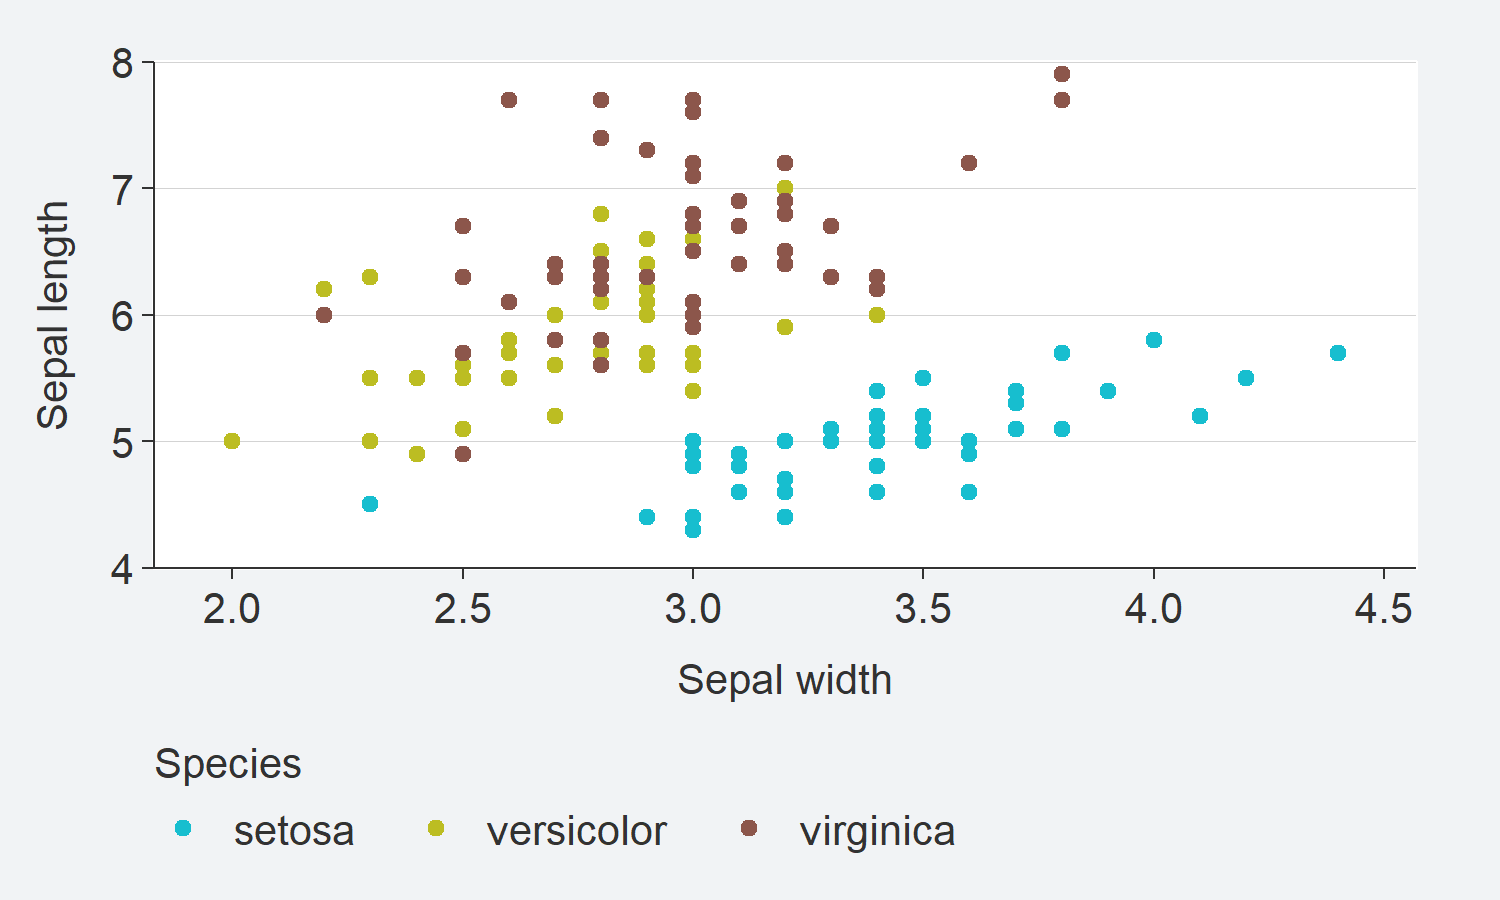
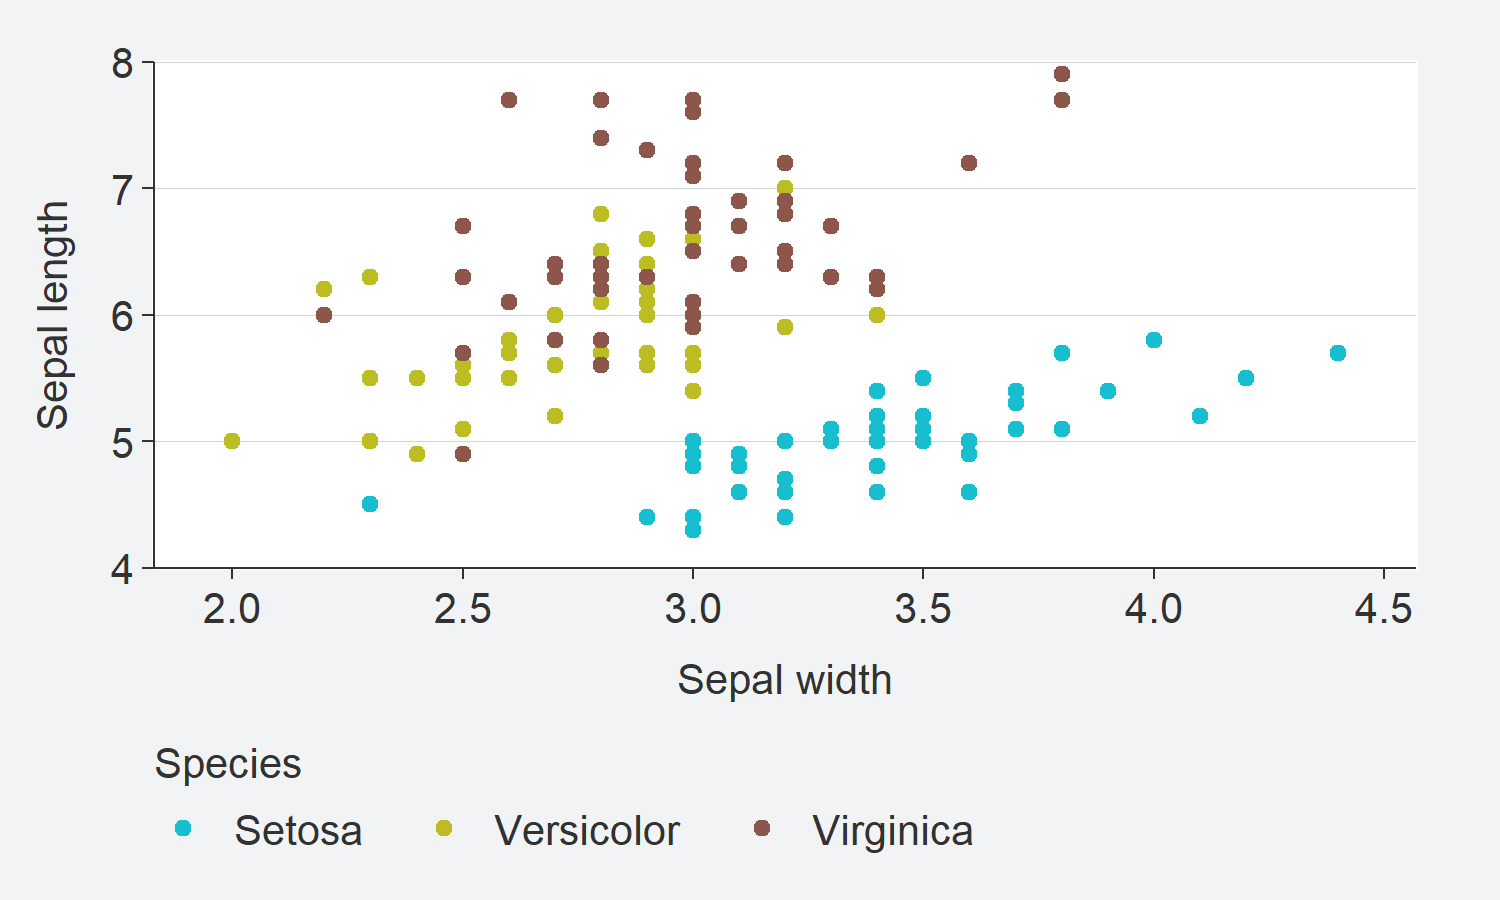
Update README

Changed region(s): [[0.276, 0.9022, 0.46, 0.9644], [0.4907, 0.9022, 0.644, 0.9644], [0.1533, 0.9022, 0.2453, 0.9644]]

diff --git a/README.md b/README.md
@@ -37,12 +37,12 @@ To do this, the {ggblanket} package:
 11. provides a `gg_blank` function for extra flexibility
 12. supports nice `plotly::ggplotly` tooltips
 13. provides access to all other `geom_*` arguments via `...`
-14. is useful for creating customised {ggblanket} functions with your
-    own defaults
+14. is useful for creating customised functions with your own defaults
 
-If you would like to show your support for {ggblanket}, you can
+If you would like to show your appreciation for {ggblanket}, you can
+give this repository a star, or even
 <a href="https://www.buymeacoffee.com/davidhodge931" target="_blank">buy
-me a coffee</a> or give the repository a star.
+me a coffee</a>.
 
 ## Website
 
@@ -80,7 +80,11 @@ library(stringr)
 
 ``` r
 iris %>%
-  gg_point(x = Sepal.Width, y = Sepal.Length, col = Species)
+  mutate(Species = str_to_sentence(Species)) %>% 
+  gg_point(
+    x = Sepal.Width, 
+    y = Sepal.Length, 
+    col = Species)
 ```
 
 ![](man/figures/README-unnamed-chunk-3-1.png)<!-- -->
@@ -90,7 +94,9 @@ iris %>%
 
 ``` r
 penguins %>% 
-  gg_histogram(x = body_mass_g, col = species) 
+  gg_histogram(
+    x = body_mass_g, 
+    col = species) 
 ```
 
 ![](man/figures/README-unnamed-chunk-4-1.png)<!-- -->
@@ -109,9 +115,12 @@ penguins %>%
   mutate(sex = str_to_sentence(sex)) %>% 
   group_by(species, sex) %>% 
   summarise(body_mass_g = mean(body_mass_g, na.rm = TRUE)) %>% 
-  gg_col(species, body_mass_g, sex, 
-         position = position_dodge2(preserve = "single"), 
-         pal = c("#1B9E77", "brown"))
+  gg_col(
+    x = species, 
+    y = body_mass_g, 
+    col = sex, 
+    position = position_dodge2(preserve = "single"),
+    pal = c("#1B9E77", "#9E361B"))
 ```
 
 ![](man/figures/README-unnamed-chunk-5-1.png)<!-- -->
@@ -123,10 +132,13 @@ penguins %>%
 penguins %>% 
   tidyr::drop_na(sex) %>%
   mutate(sex = str_to_sentence(sex)) %>% 
-  gg_violin(x = sex, y = body_mass_g, facet = species, 
-            y_include = 0, 
-            y_breaks = scales::breaks_width(1000),
-            pal = pals::brewer.dark2(9))
+  gg_violin(
+    x = sex, 
+    y = body_mass_g, 
+    facet = species, 
+    y_include = 0, 
+    y_breaks = scales::breaks_width(1000),
+    pal = "#1B9E77")
 ```
 
 ![](man/figures/README-unnamed-chunk-6-1.png)<!-- -->
@@ -138,13 +150,14 @@ penguins %>%
 penguins %>% 
   tidyr::drop_na(sex) %>% 
   mutate(sex = str_to_sentence(sex)) %>% 
-  gg_point(x = bill_length_mm, 
-           y = body_mass_g,
-           col = sex,
-           facet = species,
-           facet2 = sex, 
-           y_breaks = scales::breaks_width(1500), 
-           size = 1)
+  gg_point(
+    x = bill_length_mm, 
+    y = body_mass_g,
+    col = sex,
+    facet = species,
+    facet2 = sex, 
+    y_breaks = scales::breaks_width(1500), 
+    size = 1)
 ```
 
 ![](man/figures/README-unnamed-chunk-7-1.png)<!-- -->
@@ -243,9 +256,13 @@ penguins %>%
   tidyr::drop_na(sex) %>% 
   group_by(species, sex, island) %>%
   summarise(body_mass_kg = mean(body_mass_g) / 1000) %>%
-  gg_col(x = body_mass_kg, y = species, col = sex, facet = island,
-         col_labels = to_sentence_case, 
-         position = "dodge")
+  gg_col(
+    x = body_mass_kg, 
+    y = species, 
+    col = sex, 
+    facet = island,
+    col_labels = to_sentence_case, 
+    position = "dodge")
 ```
 
 ![](man/figures/README-unnamed-chunk-11-1.png)<!-- -->
@@ -256,18 +273,21 @@ penguins %>%
 penguins %>%
   group_by(species, sex) %>%
   summarise(across(body_mass_g, ~ round(mean(.x, na.rm = TRUE)), 0)) %>% 
-  gg_tile(sex, species, col = body_mass_g, 
-          x_labels = to_sentence_case,
-          pal = pals::brewer.blues(9),
-          width = 0.9, 
-          height = 0.9, 
-          col_legend_place = "r",
-          title = "Average penguin body mass",
-          subtitle = "Palmer Archipelago, Antarctica",
-          theme = gg_theme(grid_h = FALSE, 
-                           bg_plot_pal = "white",
-                           axis_pal = "white", 
-                           ticks_pal = "white")) +
+  gg_tile(
+    x = sex, 
+    y = species, 
+    col = body_mass_g, 
+    x_labels = to_sentence_case,
+    pal = pals::brewer.blues(9), 
+    width = 0.9,
+    height = 0.9,
+    col_legend_place = "r",
+    title = "Average penguin body mass",
+    subtitle = "Palmer Archipelago, Antarctica",
+    theme = gg_theme(grid_h = FALSE,
+                     bg_plot_pal = "white",
+                     axis_pal = "white", 
+                     ticks_pal = "white")) +
   geom_text(aes(label = body_mass_g), col = "#232323", size = 3.5) 
 ```
 
@@ -314,12 +334,14 @@ argument in `ggplotly`.
 iris %>% 
   mutate(Species = str_to_sentence(Species)) %>% 
   add_tooltip_text(titles = to_sentence_case) %>% 
-  gg_point(x = Sepal.Width, 
-           y = Sepal.Length, 
-           col = Species, 
-           text = text, 
-           theme = gg_theme("helvetica", 
-                            bg_plot_pal = "white")) %>% 
+  gg_point(
+    x = Sepal.Width, 
+    y = Sepal.Length, 
+    col = Species, 
+    text = text, 
+    theme = gg_theme(
+      "helvetica", 
+      bg_plot_pal = "white")) %>% 
   plotly::ggplotly(tooltip = "text")
 ```
 
@@ -335,7 +357,7 @@ penguins %>%
     x = flipper_length_mm,
     y = body_mass_g,
     col = sex,
-    level = 0.99, 
+    level = 0.99, #argument from geom_smooth
     col_legend_place = "t",
     col_title = "", 
     col_labels = to_sentence_case
@@ -344,8 +366,8 @@ penguins %>%
 
 ![](man/figures/README-unnamed-chunk-15-1.png)<!-- -->
 
-14. {ggblanket} is useful for creating customised {ggblanket} functions
-    with your own defaults.
+14. {ggblanket} is useful for creating customised functions with your
+    own defaults.
 
 This is because the `...` argument can allow you to access *all*
 arguments within the {ggblanket} `gg_` function.
